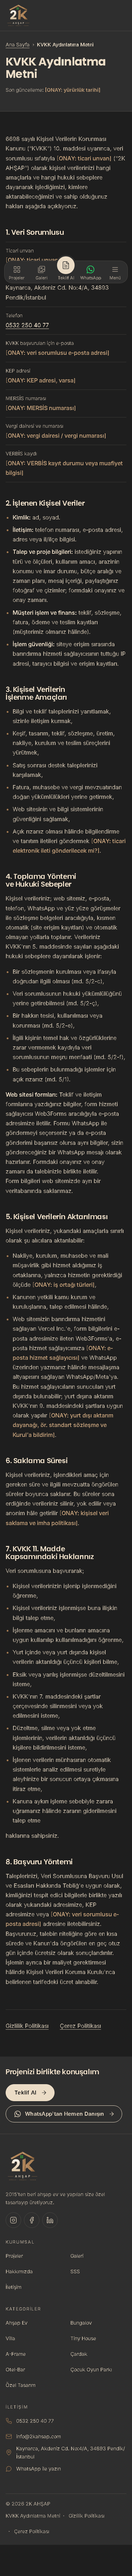
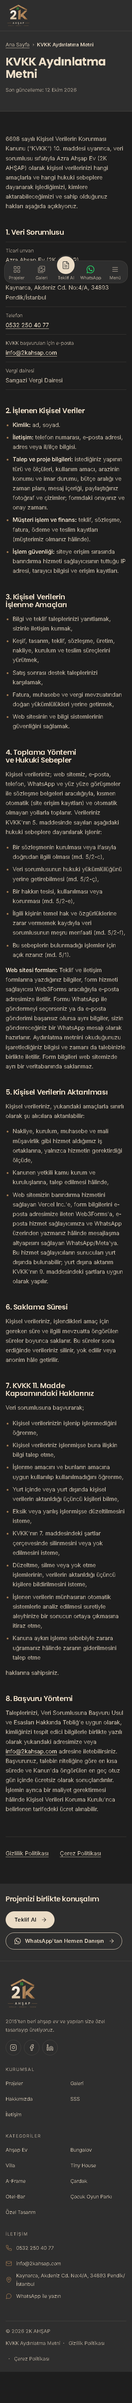
gorsel-kontrol: teklif formu adımları ve seçmeli referans yenileme
- Teklif formunun 2. ve 3. adımı da çekiliyor (T2, T3): önceki adımlar
  örnek verilerle doldurulup "Devam et" ile geçiliyor; form gönderilmiyor.
  Çekim sırasında Web3Forms'a giden her istek engelleniyor ve hata sayılıyor.
- --referans-yenile=ad,kod,… yalnızca verilen sayfaların referansını
  yeniliyor; diğerleri karşılaştırılıyor.
- /kvkk ve /iletisim referansları onaylı yeni görünümle yenilendi; T2 ve
  T3 referansları eklendi (39 PNG). Diğer referanslara dokunulmadı.
- README: yeni kodlar, seçenek ve referans geçmişi.

Changed region(s): [[0.0293, 0.0, 0.9093, 0.9994], [0.3227, 0.9369, 0.3813, 0.9682], [0.8507, 0.0937, 0.88, 0.1249]]

diff --git a/docs/guvenli-mod/README.md b/docs/guvenli-mod/README.md
@@ -38,7 +38,9 @@ Müşteri sitenin mevcut görünümünü onayladı. Bundan sonraki işler yalnı
 | G | Galeri (yalnızca ilk ekran) | `/galeri` |
 | H | Hakkımızda | `/hakkimizda` |
 | S | SSS | `/sss` |
-| T | Teklif al | `/teklif-al` |
+| T | Teklif al (1. adım) | `/teklif-al` |
+| T2 | Teklif al, 2. adım | `/teklif-al` |
+| T3 | Teklif al, 3. adım | `/teklif-al` |
 | İ | İletişim | `/iletisim` |
 | TŞ | Teşekkürler | `/tesekkurler` |
 | Y | Yasal sayfa | `/kvkk` |
@@ -49,10 +51,12 @@ Müşteri sitenin mevcut görünümünü onayladı. Bundan sonraki işler yalnı
 - Lazy olanlar dahil tüm görünür görseller ve fontlar yüklenmiş.
 - Tam sayfa çekilir. Sabit öğeler (alt menü, WhatsApp düğmesi) ilk ekrandaki yerlerinde görünür.
 - Galeri sonsuz kaydırmalı olduğu için yalnızca ilk ekranı çekilir.
+- T2 ve T3: önceki adımlar örnek verilerle doldurulur (yapı tipi, 60 m², Konut; İstanbul/Pendik, arsa, "Belirtmek istemiyorum", "Henüz belli değil") ve "Devam et" ile geçilir. Çekilen adım boş kalır. Çekimden önce sayfa en üste kaydırılır.
+- Hiçbir form gönderilmez: çekim sırasında Web3Forms'a giden her istek engellenir ve hata sayılır.
 
 | Klasör | İçerik | Depoda mı? |
 |---|---|---|
-| `referans/` | Onaylı görünüm (33 PNG) | Evet |
+| `referans/` | Onaylı görünüm (39 PNG) | Evet |
 | `son/` | Son çalıştırmanın çekimleri | Hayır (`.gitignore`) |
 | `fark/` | Fark görselleri (değişen pikseller kırmızı) ve `rapor.md` | Hayır (`.gitignore`) |
 
@@ -60,13 +64,21 @@ Seçenekler:
 
 - `--esik=0.05`: yüzde olarak izin verilen fark (varsayılan 0). Aynı derleme iki kez çekildiğinde fark %0'dır. Tek bir harf değişikliği bile yakalanır.
 - `--referans-yenile`: referansları baştan üretir. Yalnızca müşterinin onayladığı bir görünüm değişikliğinden sonra kullanılır.
+- `--referans-yenile=yasal-kvkk,iletisim`: yalnızca adı (veya kodu) verilen sayfaların referansını yeniler; diğerleri her zamanki gibi karşılaştırılır. Onaylı değişiklik birkaç sayfayla sınırlıysa bu kullanılır. Referansı olmayan yeni bir çekim ilk çalıştırmada kendiliğinden referans olur.
+
+### Referans geçmişi
+
+| Tarih | Sürüm | Değişiklik |
+|---|---|---|
+| 12 Ekim 2026 | `onayli-tasarim` (57268a2) | İlk 33 referans: müşteri onaylı görünüm |
+| 12 Ekim 2026 | dd31535 | Y ve İ yenilendi: yasal metinler tamamlandı, KVKK kutusu metni "KVKK Aydınlatma Metni'ni okudum." oldu (onaylı). T2 ve T3 eklendi. |
 
 ### Bilinen sınırlar
 
-- Çekimler tarayıcı sürümüne, işletim sistemine ve fontlara bağlıdır. Playwright sürümü `package.json` içinde sabittir (`1.63.0`). Referanslar bu Windows bilgisayarında üretildi. Başka bir ortamda karşılaştırma yapmadan önce referansları onaylı sürümden yeniden üretin:
+- Çekimler tarayıcı sürümüne, işletim sistemine ve fontlara bağlıdır. Playwright sürümü `package.json` içinde sabittir (`1.63.0`). Referanslar bu Windows bilgisayarında üretildi. Başka bir ortamda karşılaştırma yapmadan önce referansları, Referans geçmişi'ndeki son sürümden yeniden üretin (aşağıda `dd31535`):
 
   ```bash
-  git worktree add ../2k-onayli onayli-tasarim          # onaylı sürümün ayrı bir kopyası
+  git worktree add ../2k-onayli dd31535                 # referansların sürümünün ayrı bir kopyası
   (cd ../2k-onayli && npm ci && npm run build)
   rm -rf dist && cp -r ../2k-onayli/dist dist           # onaylı sürümün derlemesi
   npm run gorsel-kontrol -- --derleme-yok --referans-yenile
